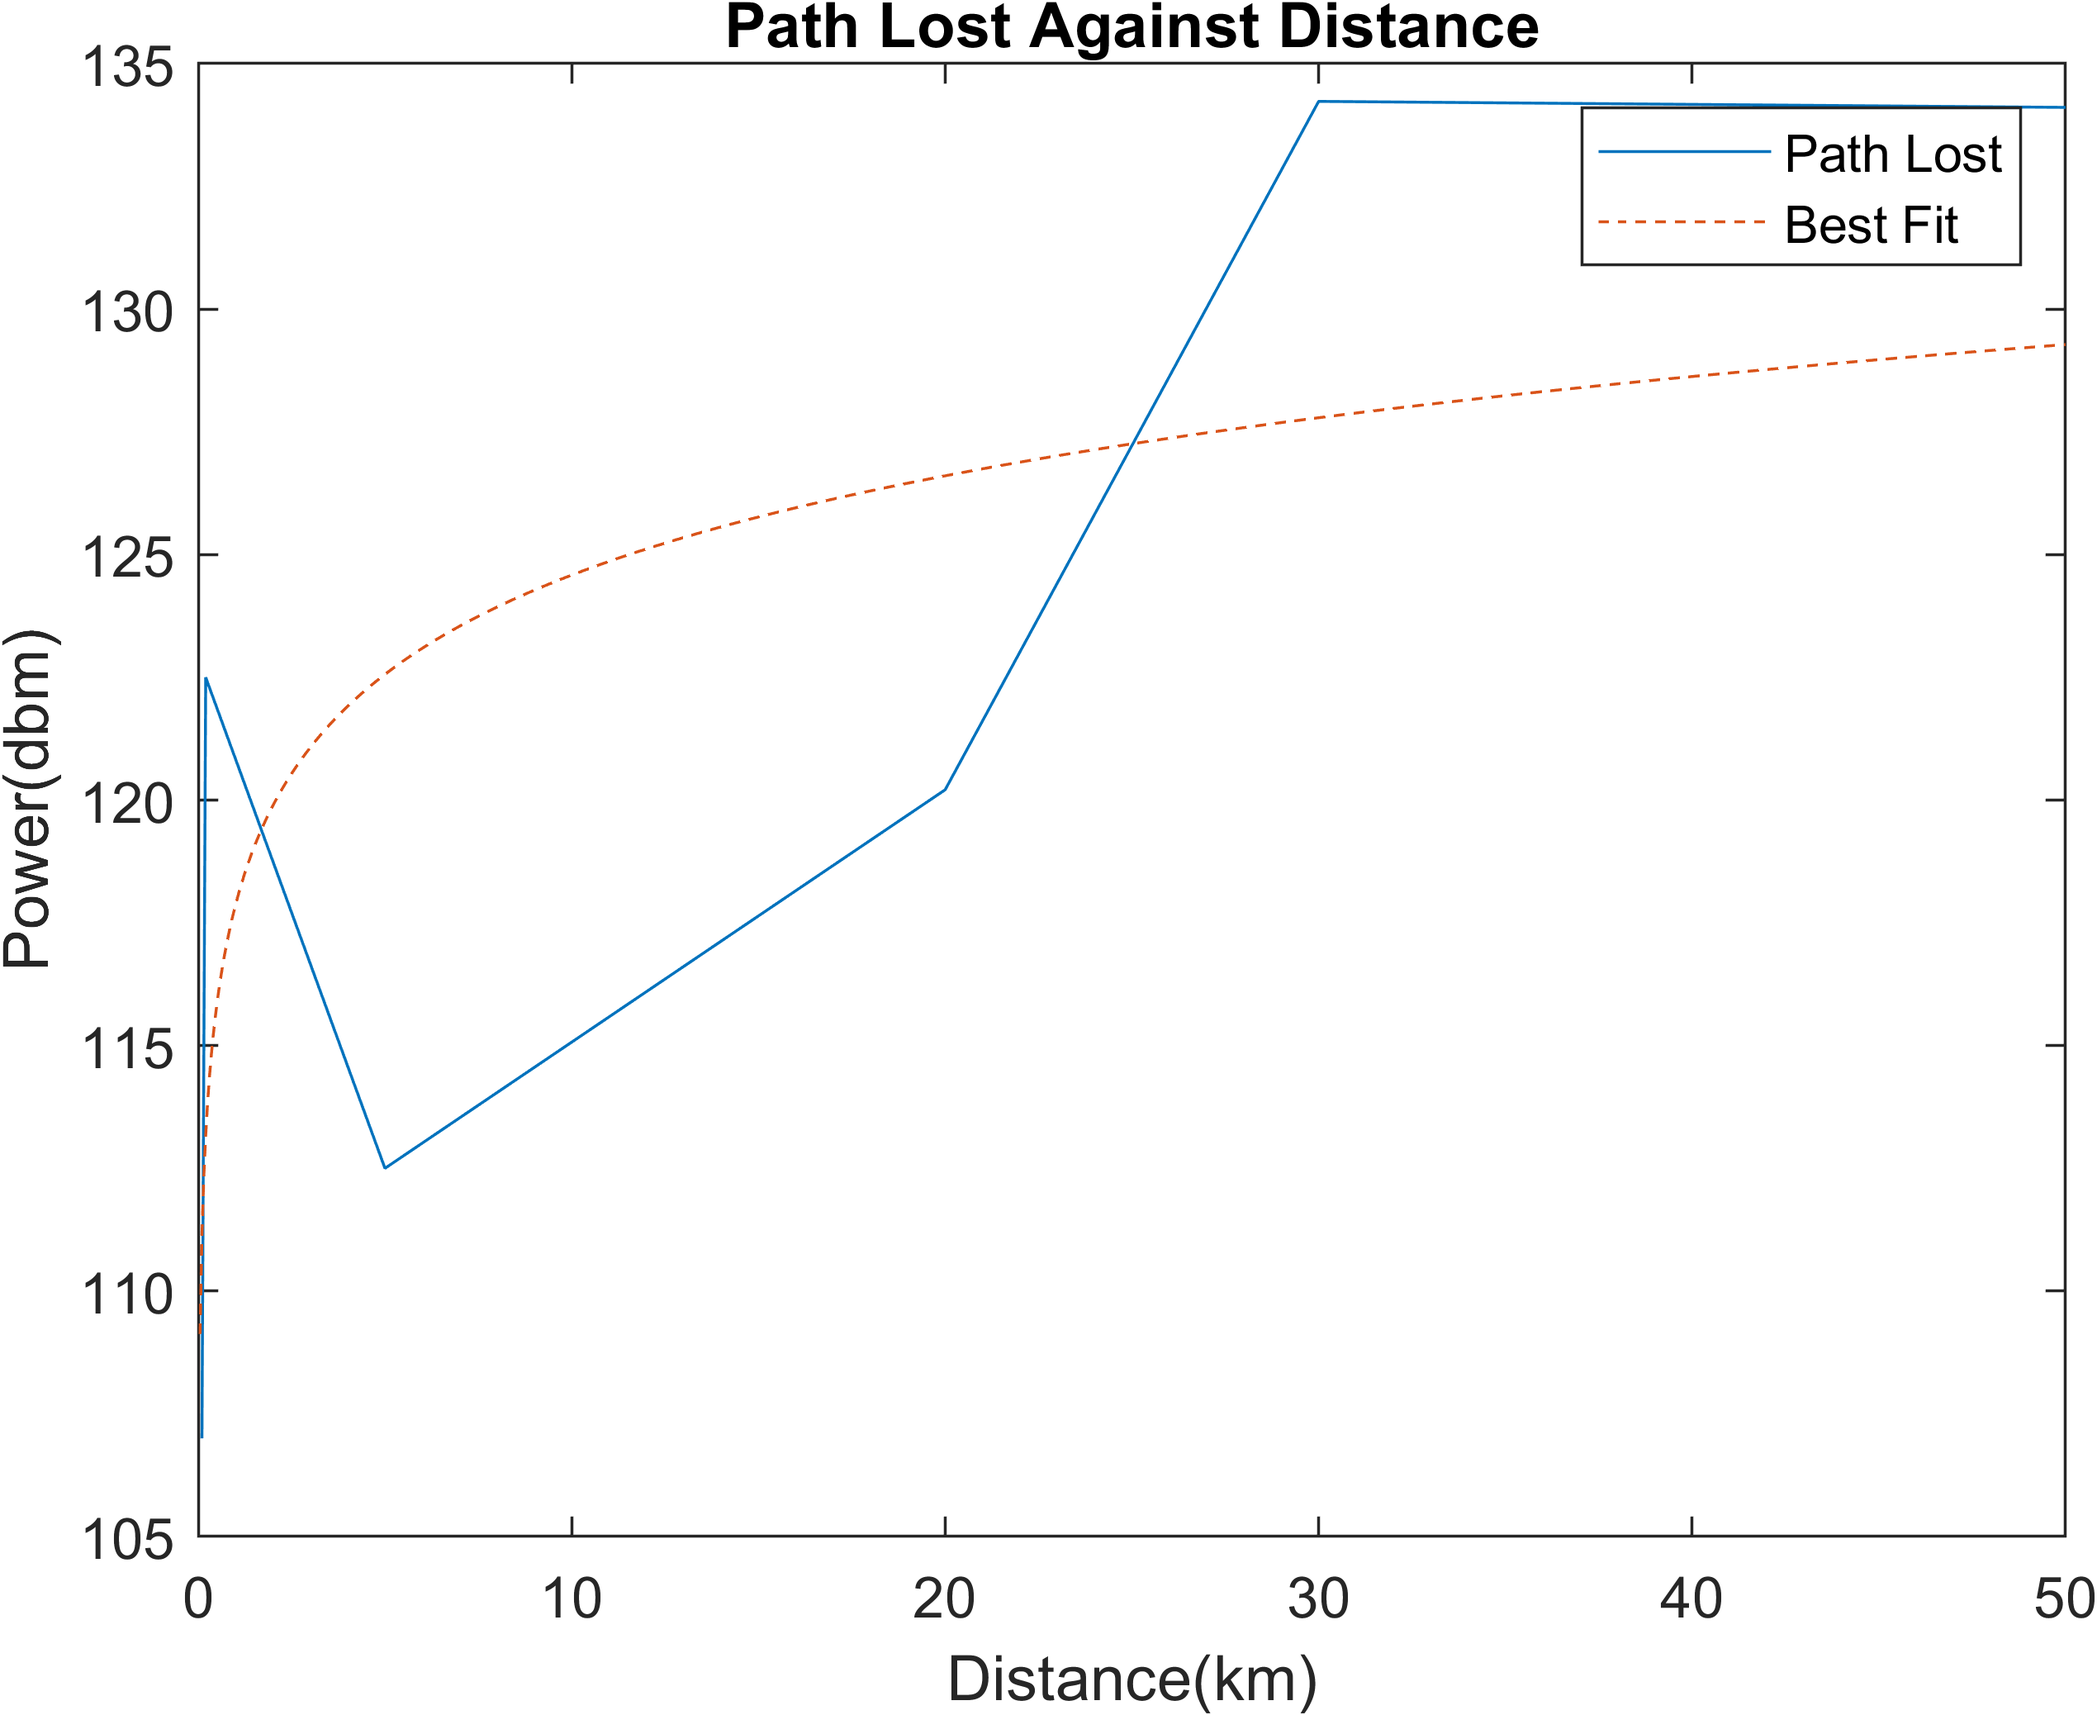
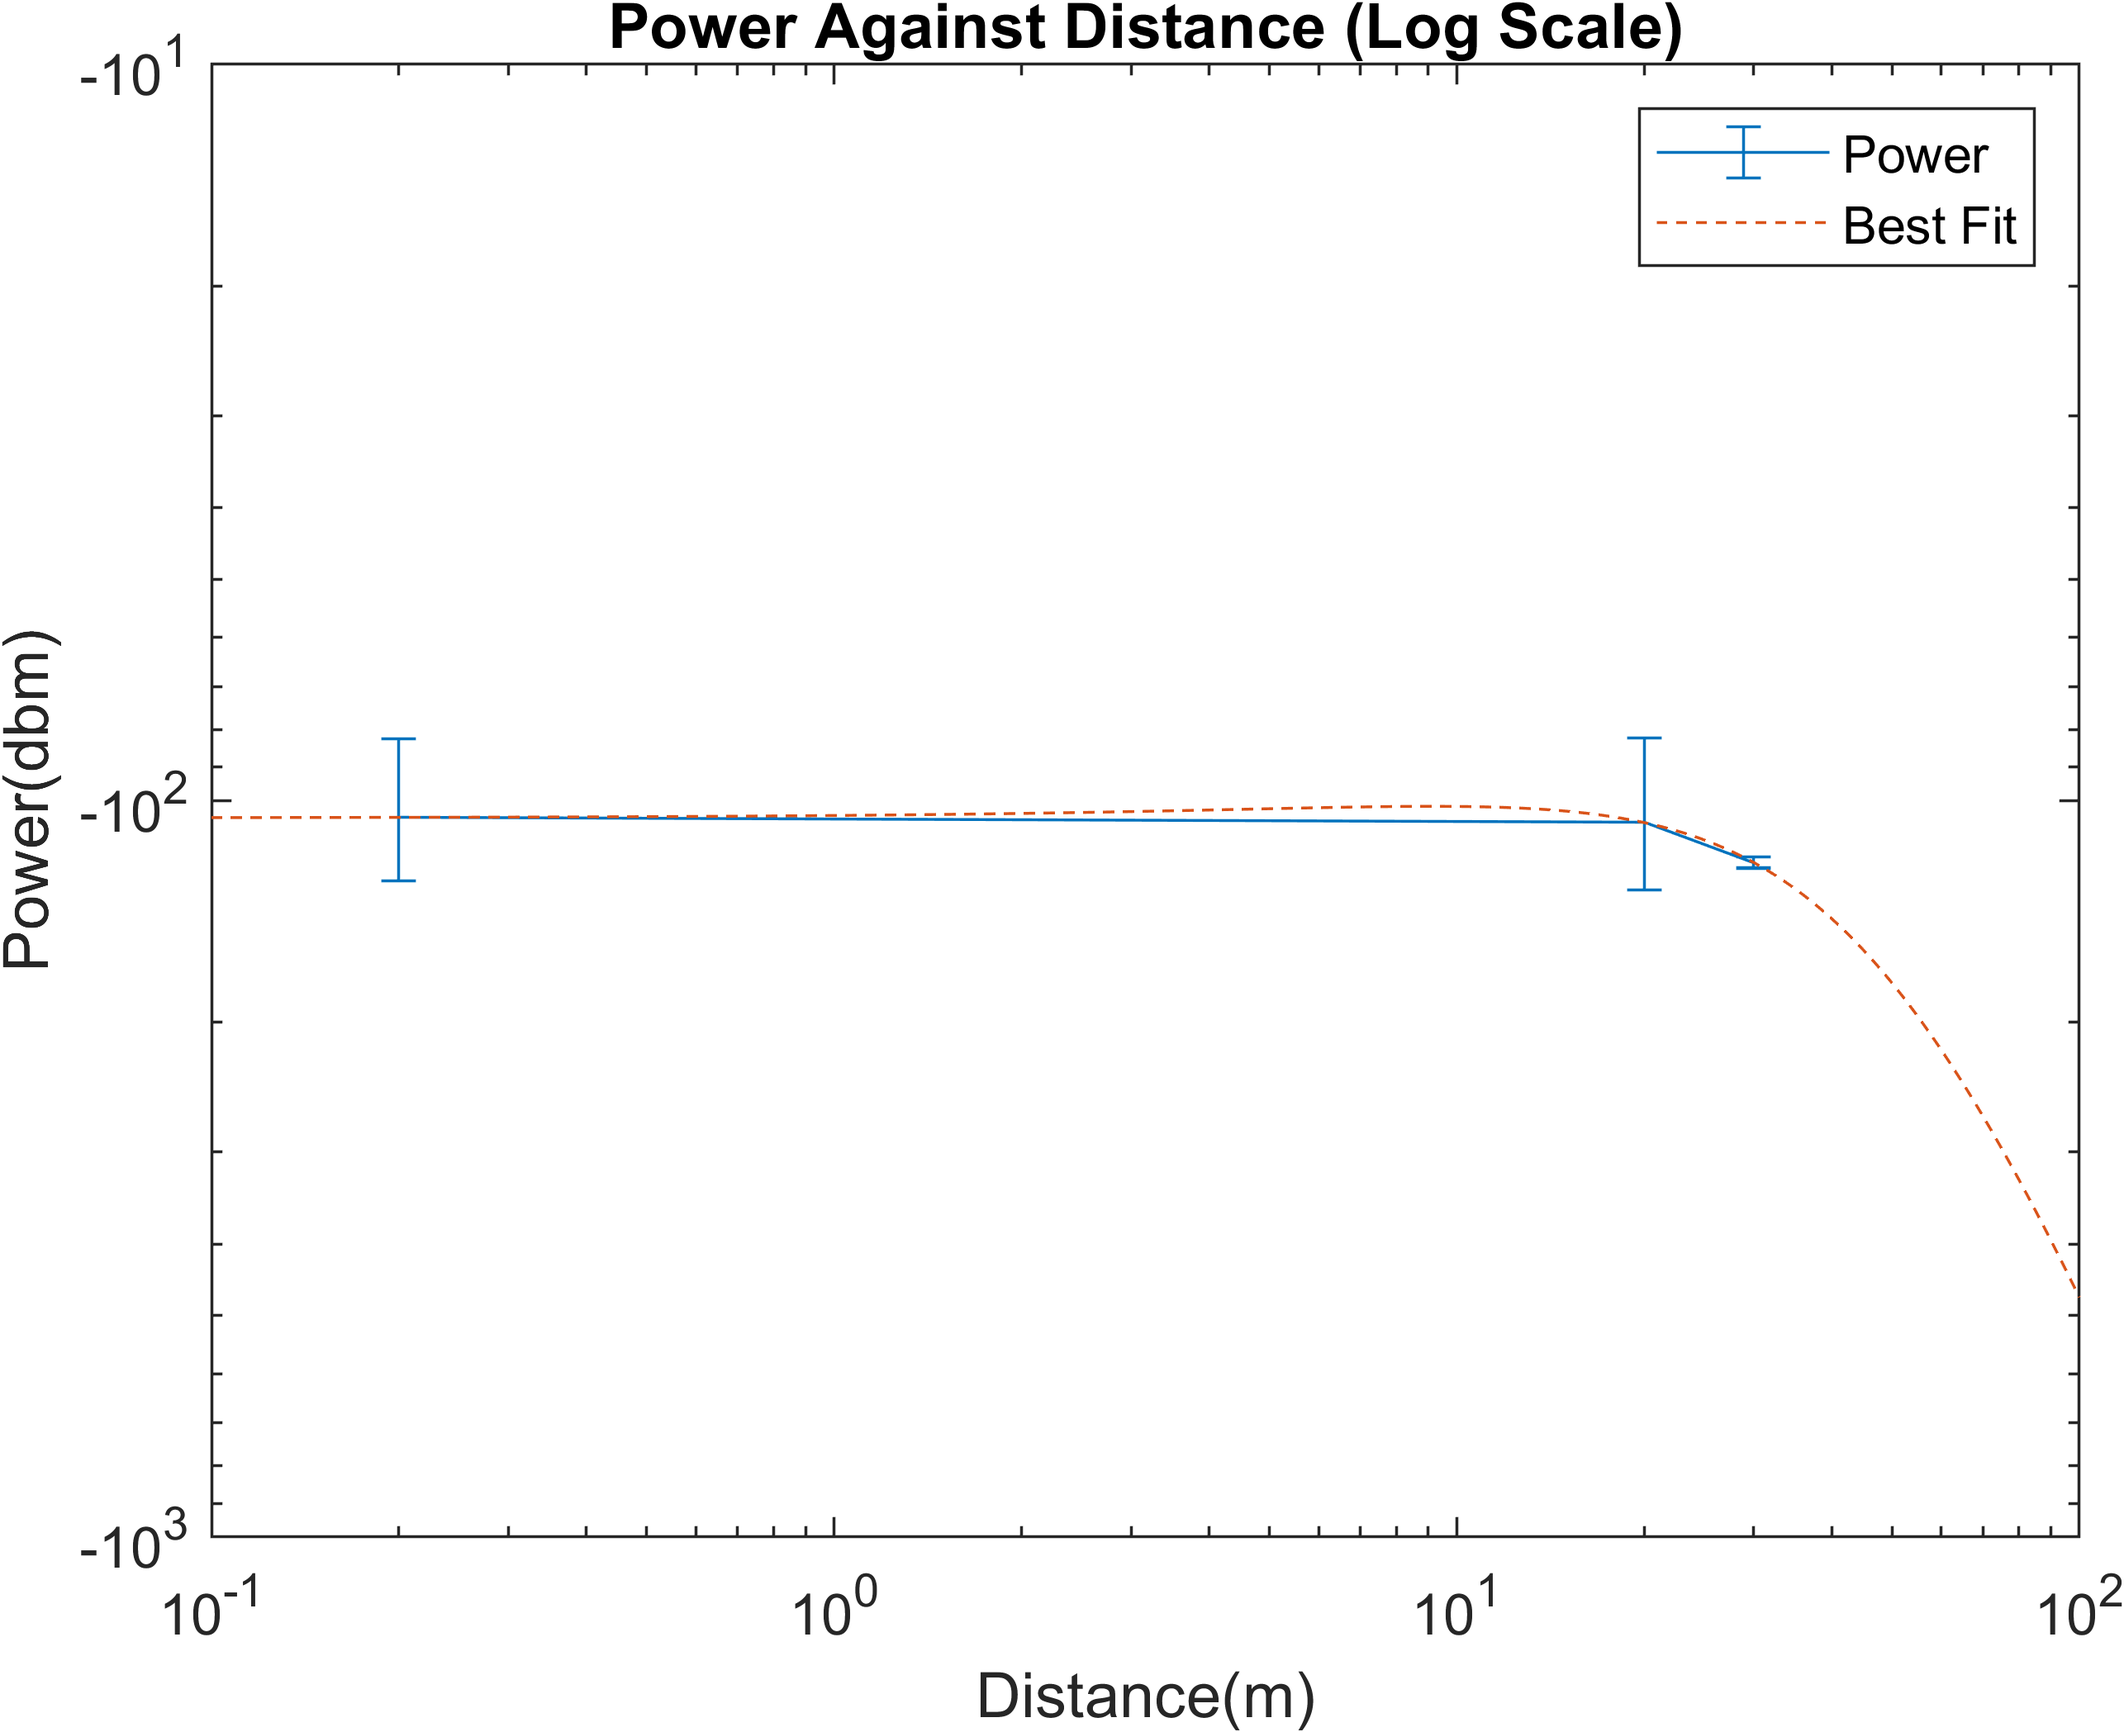
calculation correction

diff --git a/data_collection/Plot.m b/data_collection/Plot.m
@@ -12,17 +12,6 @@ for i=1:length(files)
     current_file = load(strcat(files(i).folder,'\',files(i).name), '-ascii')
     data_table = [data_table;current_file]
     data_table=round(data_table,3)
-
-    %longitude=current_file(:,3);
-    %latitude=current_file(:,4);
-    %initialx = current_file(:,1);
-    %initialy = current_file(:,2);
-    %dist =mean(current_file(:,1),1);
-    %dist = [dist,distance(initialx,initialy,latitude,longitude)]
-    %rssi=mean(current_file(:,2),1);
-    %packet_rssi = mean(current_file(:,3),1);
-    %snr= mean(current_file(:,4),1);
-    %data_table = [data_table;[dist,rssi,packet_rssi,snr]]
 end
 dist=data_table(:,1)
 rssi=data_table(:,2)
@@ -31,14 +20,57 @@ snr = data_table(:,4)
 %A = unique(table(dist,rssi,packet_rssi,snr))
 %uni_dist = unique(A.dist)
 
+%Delete Min Max
+[ii,jj,kk]=unique(data_table(:,1))
+distance_avg = ii
+rssi_max = [ii accumarray(kk,data_table(:,2),[],@max)]
+rssi_min = [ii accumarray(kk,data_table(:,2),[],@min)]
+rssi_min_lst = find(data_table(:,1)==rssi_min(kk,1) & data_table(:,2)==rssi_min(kk,2))
+rssi_max_lst = find(data_table(:,1)==rssi_max(kk,1) & data_table(:,2)==rssi_max(kk,2))
+lst = [rssi_min_lst;rssi_max_lst]
+data_table(lst,:)=[]
+[ii,jj,kk]=unique(data_table(:,1))
+distance_avg = ii
+prssi_max = [ii accumarray(kk,data_table(:,3),[],@max)]
+prssi_min = [ii accumarray(kk,data_table(:,3),[],@min)]
+prssi_min_lst = find(data_table(:,1)==prssi_min(kk,1) & data_table(:,3)==prssi_min(kk,2))
+prssi_max_lst = find(data_table(:,1)==prssi_max(kk,1) & data_table(:,3)==prssi_max(kk,2))
+lst = [prssi_min_lst;prssi_max_lst]
+data_table(lst,:)=[]
+
+%load expierment data
 [ii,jj,kk]=unique(data_table(:,1))
 distance_avg = ii
 rssi_avg=[ii accumarray(kk,data_table(:,2),[],@mean)]
 rssi_avg=rssi_avg(:,2)
+lower=[ii accumarray(kk,data_table(:,2),[], @(x) quantile(x,.05))]
+upper=[ii accumarray(kk,data_table(:,2),[], @(x) quantile(x,.95))]
+lower_rssi=lower(:,2)
+upper_rssi=upper(:,2)
 packet_rssi_avg=[ii accumarray(kk,data_table(:,3),[],@mean)]
 packet_rssi_avg=packet_rssi_avg(:,2)
+lower=[ii accumarray(kk,data_table(:,3),[], @(x) quantile(x,.05))]
+upper=[ii accumarray(kk,data_table(:,3),[], @(x) quantile(x,.95))]
+lower_prssi=lower(:,2)
+upper_prssi=upper(:,2)
 snr_avg=[ii accumarray(kk,data_table(:,4),[],@mean)]
 snr_avg=snr_avg(:,2)
+
+lowerthanzero = find(snr_avg<0);
+upperthanzero = find(snr_avg>0);
+CI95_lower=double.empty(1,0);
+CI95_upper=double.empty(1,0);
+
+for i=1:length(lower_prssi)
+    if ismember(i,lowerthanzero)
+        CI95_lower = [CI95_lower;lower_prssi(i)]
+        CI95_upper = [CI95_upper;upper_prssi(i)]
+    else
+       CI95_lower = [CI95_lower;lower_rssi(i)]
+       CI95_upper = [CI95_upper;upper_rssi(i)]
+    end
+end
+
 
 if snr_avg < 0
     packet_strength= packet_rssi_avg + snr_avg * 0.25
@@ -50,7 +82,10 @@ figure(1);
 avg_power = packet_strength
 xdata = distance_avg(:)
 ydata = avg_power
-plot(xdata,ydata,'-o')
+err = CI95_upper - CI95_lower
+errorbar(xdata,ydata,err)
+set(gca,'YScale','log')
+set(gca,'XScale','log')
 
 
 
@@ -58,20 +93,22 @@ cf = fit(xdata,ydata,'poly2');
 hold on
 plot(cf,'--')
 legend('Power','Best Fit')
-xlabel('Distance(km)'), ylabel('Power(dbm)')
-title('Power Against Distance')
+xlabel('Distance(m)'), ylabel('Power(dbm)')
+title('Power Against Distance (Log Scale)')
 
 out = gca;
-exportgraphics(out,'result/graph/distance_path_lost.png','Resolution',500)
+exportgraphics(out,'result/graph/distance_power.png','Resolution',500)
 
 figure(2);
 %RSSI(avg_power) = init_power +gain − Ldb +gain dBm.
 %Ldb = init_power +gain -RSSI(avg_power)+gain 
 init_power = 13
 gain = 17
-transmit_power = init_power+gain
-Ldb = transmit_power - avg_power -gain
-plot(xdata,Ldb,'-')
+transmit_power = init_power+(gain+2.51)
+Ldb = transmit_power - avg_power-(gain+2.51)
+errorbar(xdata,Ldb,err)
+set(gca,'YScale','log')
+set(gca,'XScale','log')
 
 myfittype = fittype('a +10*n*log10(d*10^3) -b',...
     'dependent',{'y'},'independent',{'d'},...
@@ -80,12 +117,12 @@ cf = fit(xdata,Ldb,myfittype);
 hold on
 plot(cf,'--')
 legend('Path Lost','Best Fit')
-xlabel('Distance(km)'), ylabel('Power(dbm)')
-title('Path Lost Against Distance')
+xlabel('Distance(m)'), ylabel('Power(dbm)')
+title('Path Lost Against Distance(Log Scale)')
 
 
 out = gca;
-exportgraphics(out,'result/graph/distance_power.png','Resolution',500)
+exportgraphics(out,'result/graph/distance_path_lost.png','Resolution',500)
 
 %Equition Solver for N
 %n = (20*log(f)-147.58 - Ldb)/10 /log(distance)
@@ -115,16 +152,18 @@ figure(3);
 receive_power_lst = transmit_power-Ldb
 rssi_lst = receive_power_lst+gain
 for i=1:length(rssi_avg)
-    cur_path=[init_power;transmit_power;receive_power_lst(i);rssi_lst(i);rssi_lst(i)];
+    cur_path=[init_power;transmit_power;transmit_power+2.15;receive_power_lst(i);receive_power_lst(i)+2.15;rssi_lst(i);rssi_lst(i)];
     path = [path,cur_path];
 end
-x_path = {'1 - TX Radio','2 - PA TX','3 - Path Loss','4 - PA RX','5 - RSSI'}
+x_path = {'1 - TX Radio','2 - PA TX','3 - Antenna Gain RX','4 - Path Loss','5 - Antenna Gain RX','6 - PA RX','7 - RSSI'}
 C = categorical(x_path)
 
 plot(C,path)
+legendCell = cellstr(num2str(xdata, '%0.1d'));
+legend(legendCell)
 xlabel('Stage of the Transmission'), ylabel('Power(dbm)')
 title('Power Development Along the Radio Path Per Distance Unit')
 out = gca;
-exportgraphics(out,'result/graph/power_path.png','Resolution',500)
+exportgraphics(out,'result/graph/power_path.png','Resolution',700)
 
 
